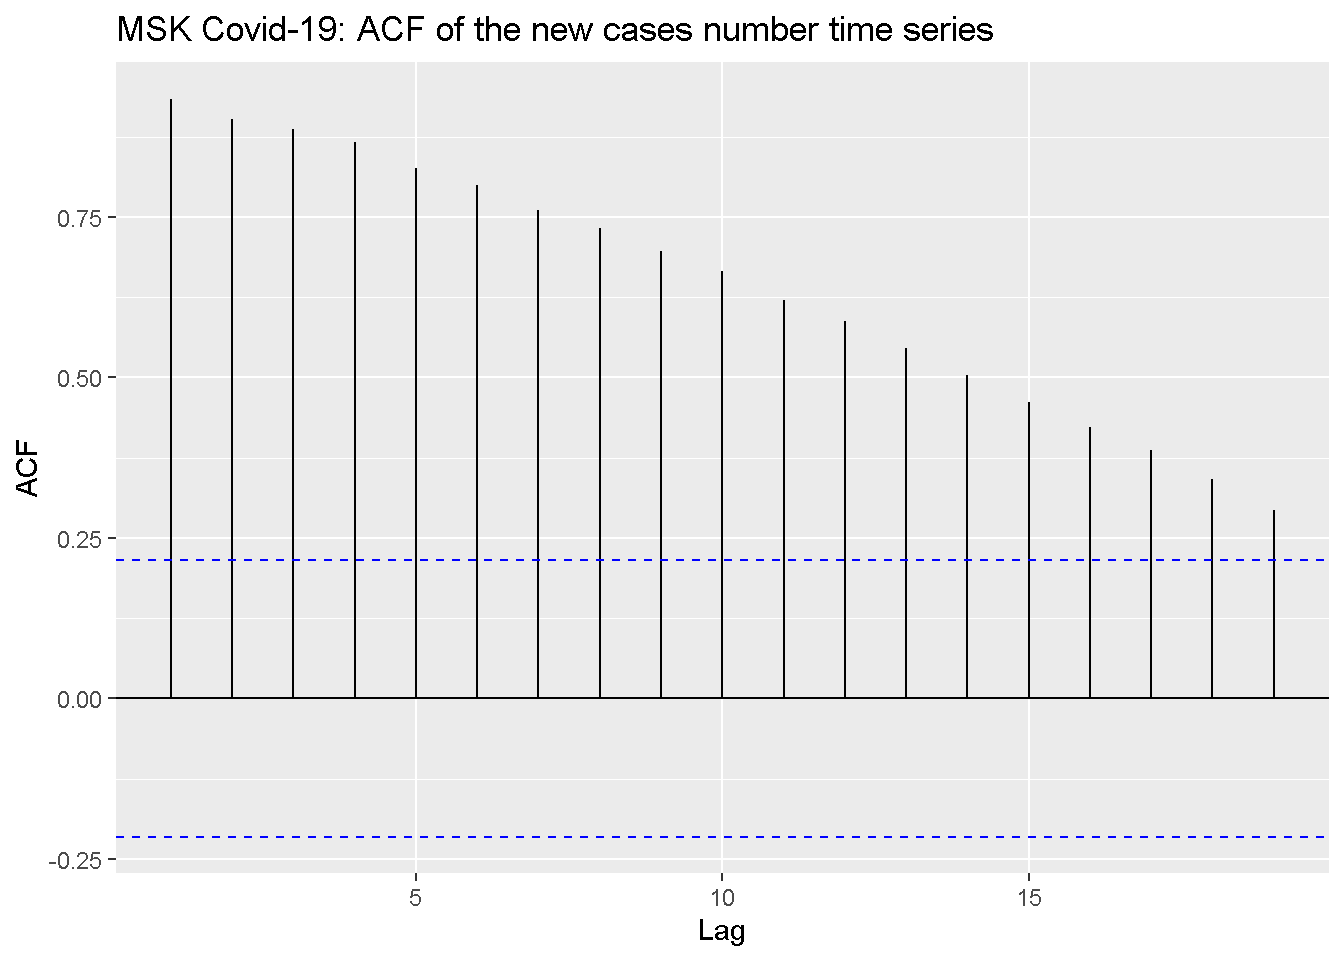
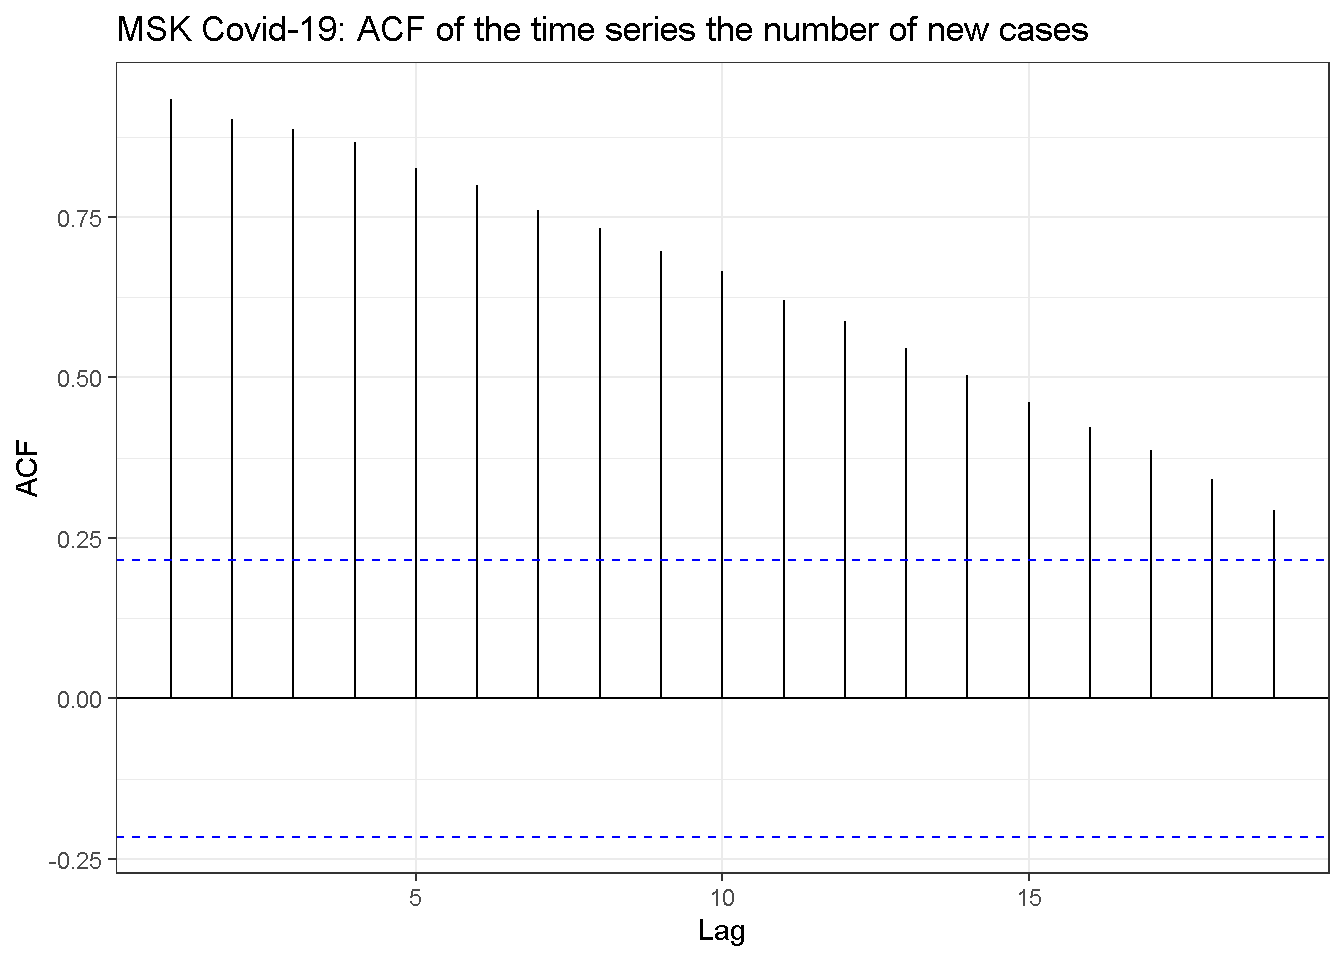
Update "Covid on Telegram"

Changed region(s): [[0.4062, 0.0, 0.8125, 0.0625]]

diff --git a/post/2021-03-24-parse-telegram-covid/index.html b/post/2021-03-24-parse-telegram-covid/index.html
@@ -52,7 +52,7 @@ The first step is to download Telegram chat stream. That can be easily done with
 <meta itemprop="description" content="The data about hospitalizations with COVID-19 in Moscow are hard to find in public datasets. However these data are daily published in the specialized Telegram channel, so they can be parsed from there to be used in data analysis.
 The first step is to download Telegram chat stream. That can be easily done with the desktop Telegram client so I will skip this step and assume that the necessary data, i."><meta itemprop="datePublished" content="2024-03-24T10:10:00&#43;00:00" />
 <meta itemprop="dateModified" content="2024-03-24T10:10:00&#43;00:00" />
-<meta itemprop="wordCount" content="1166">
+<meta itemprop="wordCount" content="1184">
 <meta itemprop="keywords" content="R,RStudio,COVID19,XML,Tools,Howto,Packages," /><meta name="twitter:card" content="summary"/>
 <meta name="twitter:title" content="Dataset compilation: Telegram and HTML parsing for COVID-19 epidemic data"/>
 <meta name="twitter:description" content="The data about hospitalizations with COVID-19 in Moscow are hard to find in public datasets. However these data are daily published in the specialized Telegram channel, so they can be parsed from there to be used in data analysis.
@@ -389,14 +389,17 @@ The first step is to download Telegram chat stream. That can be easily done with
 <div class="highlight"><pre class="chroma"><code class="language-r" data-lang="r"><span class="nf">ggplot</span><span class="p">(</span><span class="n">dt.data</span><span class="p">,</span> <span class="nf">aes</span><span class="p">(</span><span class="n">x</span><span class="o">=</span><span class="n">date</span><span class="p">,</span> <span class="n">y</span><span class="o">=</span><span class="n">new_diag</span><span class="p">,</span> <span class="n">color</span><span class="o">=</span><span class="s">&#34;Diagnosed&#34;</span><span class="p">))</span><span class="o">+</span>
   <span class="nf">geom_path</span><span class="p">(</span><span class="n">size</span><span class="o">=</span><span class="m">1</span><span class="p">)</span><span class="o">+</span>
   <span class="nf">geom_path</span><span class="p">(</span><span class="nf">aes</span><span class="p">(</span><span class="n">y</span><span class="o">=</span><span class="n">new_hosp</span><span class="p">,</span> <span class="n">color</span><span class="o">=</span><span class="s">&#34;Hospitilized&#34;</span><span class="p">),</span> <span class="n">size</span><span class="o">=</span><span class="m">1</span><span class="p">)</span><span class="o">+</span>
-  <span class="nf">ggtitle</span><span class="p">(</span><span class="s">&#34;COVID-19 MSK: Number of hospitalized and diagnosed patiens &#34;</span><span class="p">)</span><span class="o">+</span>
+  <span class="nf">ggtitle</span><span class="p">(</span><span class="s">&#34;COVID-19 MSK: Number of newly hospitalized and diagnosed patiens&#34;</span><span class="p">)</span><span class="o">+</span>
   <span class="nf">xlab</span><span class="p">(</span><span class="s">&#34;Date&#34;</span><span class="p">)</span><span class="o">+</span>
   <span class="nf">scale_color_discrete</span><span class="p">(</span><span class="n">name</span><span class="o">=</span><span class="s">&#34;&#34;</span><span class="p">)</span><span class="o">+</span>
-  <span class="nf">ylab</span><span class="p">(</span><span class="s">&#34;Number of patients&#34;</span><span class="p">)</span>
+  <span class="nf">ylab</span><span class="p">(</span><span class="s">&#34;Number of patients&#34;</span><span class="p">)</span><span class="o">+</span> 
+  <span class="nf">theme_bw</span><span class="p">()</span><span class="o">+</span>
+  <span class="nf">scale_x_date</span><span class="p">(</span><span class="n">date_labels</span> <span class="o">=</span> <span class="s">&#34;%d%-%m-%Y&#34;</span><span class="p">)</span>
 </code></pre></div><p><img src="parse_telegram_covid-en_files/figure-html/unnamed-chunk-15-1.png" width="672" /></p>
-<p>No indication for periodicity in the auto correlation function.</p>
+<p>No indication for periodicity in the auto correlation function (same is in logs).</p>
 <div class="highlight"><pre class="chroma"><code class="language-r" data-lang="r"><span class="nf">ggAcf</span><span class="p">(</span><span class="n">dt.data</span><span class="o">$</span><span class="n">new_diag</span><span class="p">)</span><span class="o">+</span>
-  <span class="nf">ggtitle</span><span class="p">(</span><span class="s">&#34;MSK Covid-19: ACF of the new cases number time series&#34;</span><span class="p">)</span>
+  <span class="nf">ggtitle</span><span class="p">(</span><span class="s">&#34;MSK Covid-19: ACF of the time series the number of new cases&#34;</span><span class="p">)</span><span class="o">+</span> 
+  <span class="nf">theme_bw</span><span class="p">()</span>
 </code></pre></div><p><img src="parse_telegram_covid-en_files/figure-html/unnamed-chunk-16-1.png" width="672" /></p>
 <p>No clear indication for a time lag between the two series. However cross correlation function is more biases towards negative lags as it should be: diagnostic sightly precedes hospitalizations.</p>
 <div class="highlight"><pre class="chroma"><code class="language-r" data-lang="r"><span class="n">ccf1</span> <span class="o">&lt;-</span> <span class="nf">ccf</span><span class="p">(</span><span class="n">dt.data</span><span class="o">$</span><span class="n">new_diag</span><span class="p">,</span> <span class="n">dt.data</span><span class="o">$</span><span class="n">new_hosp</span><span class="p">,</span> 
@@ -407,7 +410,8 @@ The first step is to download Telegram chat stream. That can be easily done with
 <span class="nf">ggplot</span><span class="p">(</span><span class="nf">data.frame</span><span class="p">(</span><span class="n">ccf</span><span class="o">=</span><span class="n">ccf1</span><span class="o">$</span><span class="n">acf</span><span class="p">,</span> <span class="n">lag</span><span class="o">=</span><span class="n">ccf1</span><span class="o">$</span><span class="n">lag</span><span class="p">),</span> <span class="nf">aes</span><span class="p">(</span><span class="n">lag</span><span class="p">,</span> <span class="n">ccf</span><span class="p">))</span><span class="o">+</span>
   <span class="nf">geom_path</span><span class="p">(</span><span class="n">color</span><span class="o">=</span><span class="s">&#34;blue&#34;</span><span class="p">,</span> <span class="n">size</span><span class="o">=</span><span class="m">1</span><span class="p">)</span><span class="o">+</span>
   <span class="nf">geom_vline</span><span class="p">(</span><span class="n">xintercept</span><span class="o">=</span><span class="m">0</span><span class="p">,</span> <span class="n">linetype</span><span class="o">=</span><span class="m">2</span><span class="p">)</span> <span class="o">+</span>
-  <span class="nf">ggtitle</span><span class="p">(</span><span class="s">&#34;COVID-19 MSK: CCF new cases number ~ new hospitalizations number&#34;</span><span class="p">)</span>
+  <span class="nf">ggtitle</span><span class="p">(</span><span class="s">&#34;COVID-19 MSK: CCF new cases number ~ new hospitalizations number&#34;</span><span class="p">)</span><span class="o">+</span>
+  <span class="nf">theme_bw</span><span class="p">()</span>
 </code></pre></div><p><img src="parse_telegram_covid-en_files/figure-html/unnamed-chunk-17-1.png" width="672" /></p>
 <p>The ratio of the number of hospitalizations to the number of new cases grows with time. More and more sick people skip official medicine entirely.</p>
 <div class="highlight"><pre class="chroma"><code class="language-r" data-lang="r"><span class="c1">#Build regression tree for stepwise approximation</span>
@@ -419,10 +423,13 @@ The first step is to download Telegram chat stream. That can be easily done with
 <span class="nf">ggplot</span><span class="p">(</span><span class="n">dt.data</span><span class="p">,</span> <span class="nf">aes</span><span class="p">(</span><span class="n">x</span><span class="o">=</span><span class="n">date</span><span class="p">,</span> <span class="n">y</span><span class="o">=</span><span class="n">new_hosp</span><span class="o">/</span><span class="n">new_diag</span><span class="p">,</span> <span class="n">color</span><span class="o">=</span><span class="s">&#34;Data&#34;</span><span class="p">))</span><span class="o">+</span>
   <span class="nf">geom_path</span><span class="p">(</span><span class="n">size</span><span class="o">=</span><span class="m">1</span><span class="p">)</span><span class="o">+</span>
   <span class="nf">geom_smooth</span><span class="p">(</span><span class="nf">aes</span><span class="p">(</span><span class="n">color</span><span class="o">=</span><span class="s">&#34;Lowess&#34;</span><span class="p">),</span> <span class="n">size</span><span class="o">=</span><span class="m">1</span><span class="p">)</span><span class="o">+</span>
-  <span class="nf">ggtitle</span><span class="p">(</span><span class="s">&#34;COVID-19 MSK: Ratio of the number of newly hospitalized patiens to\n the number of new registered cases&#34;</span><span class="p">)</span><span class="o">+</span>
+  <span class="nf">ggtitle</span><span class="p">(</span><span class="s">&#34;COVID-19 MSK: Ratio of the number of new hospitalizations to\n the number of new registered (diagnosed) cases&#34;</span><span class="p">)</span><span class="o">+</span>
   <span class="nf">xlab</span><span class="p">(</span><span class="s">&#34;Date&#34;</span><span class="p">)</span><span class="o">+</span>
+  <span class="nf">ylab</span><span class="p">(</span><span class="s">&#34;Ratio&#34;</span><span class="p">)</span><span class="o">+</span>
   <span class="nf">geom_path</span><span class="p">(</span><span class="nf">aes</span><span class="p">(</span><span class="n">y</span><span class="o">=</span><span class="n">hosp.rat.tree</span><span class="p">,</span> <span class="n">color</span><span class="o">=</span><span class="s">&#34;Reg. tree&#34;</span><span class="p">),</span> <span class="n">size</span><span class="o">=</span><span class="m">1</span><span class="p">)</span><span class="o">+</span>
-  <span class="nf">scale_color_discrete</span><span class="p">(</span><span class="n">name</span><span class="o">=</span><span class="s">&#34;&#34;</span><span class="p">)</span>
+  <span class="nf">scale_color_discrete</span><span class="p">(</span><span class="n">name</span><span class="o">=</span><span class="s">&#34;&#34;</span><span class="p">)</span> <span class="o">+</span> 
+  <span class="nf">theme_bw</span><span class="p">()</span><span class="o">+</span>
+  <span class="nf">scale_x_date</span><span class="p">(</span><span class="n">date_labels</span> <span class="o">=</span> <span class="s">&#34;%d%-%m-%Y&#34;</span><span class="p">)</span>
 </code></pre></div><p><img src="parse_telegram_covid-en_files/figure-html/unnamed-chunk-18-1.png" width="672" /></p>
 
     </div>
